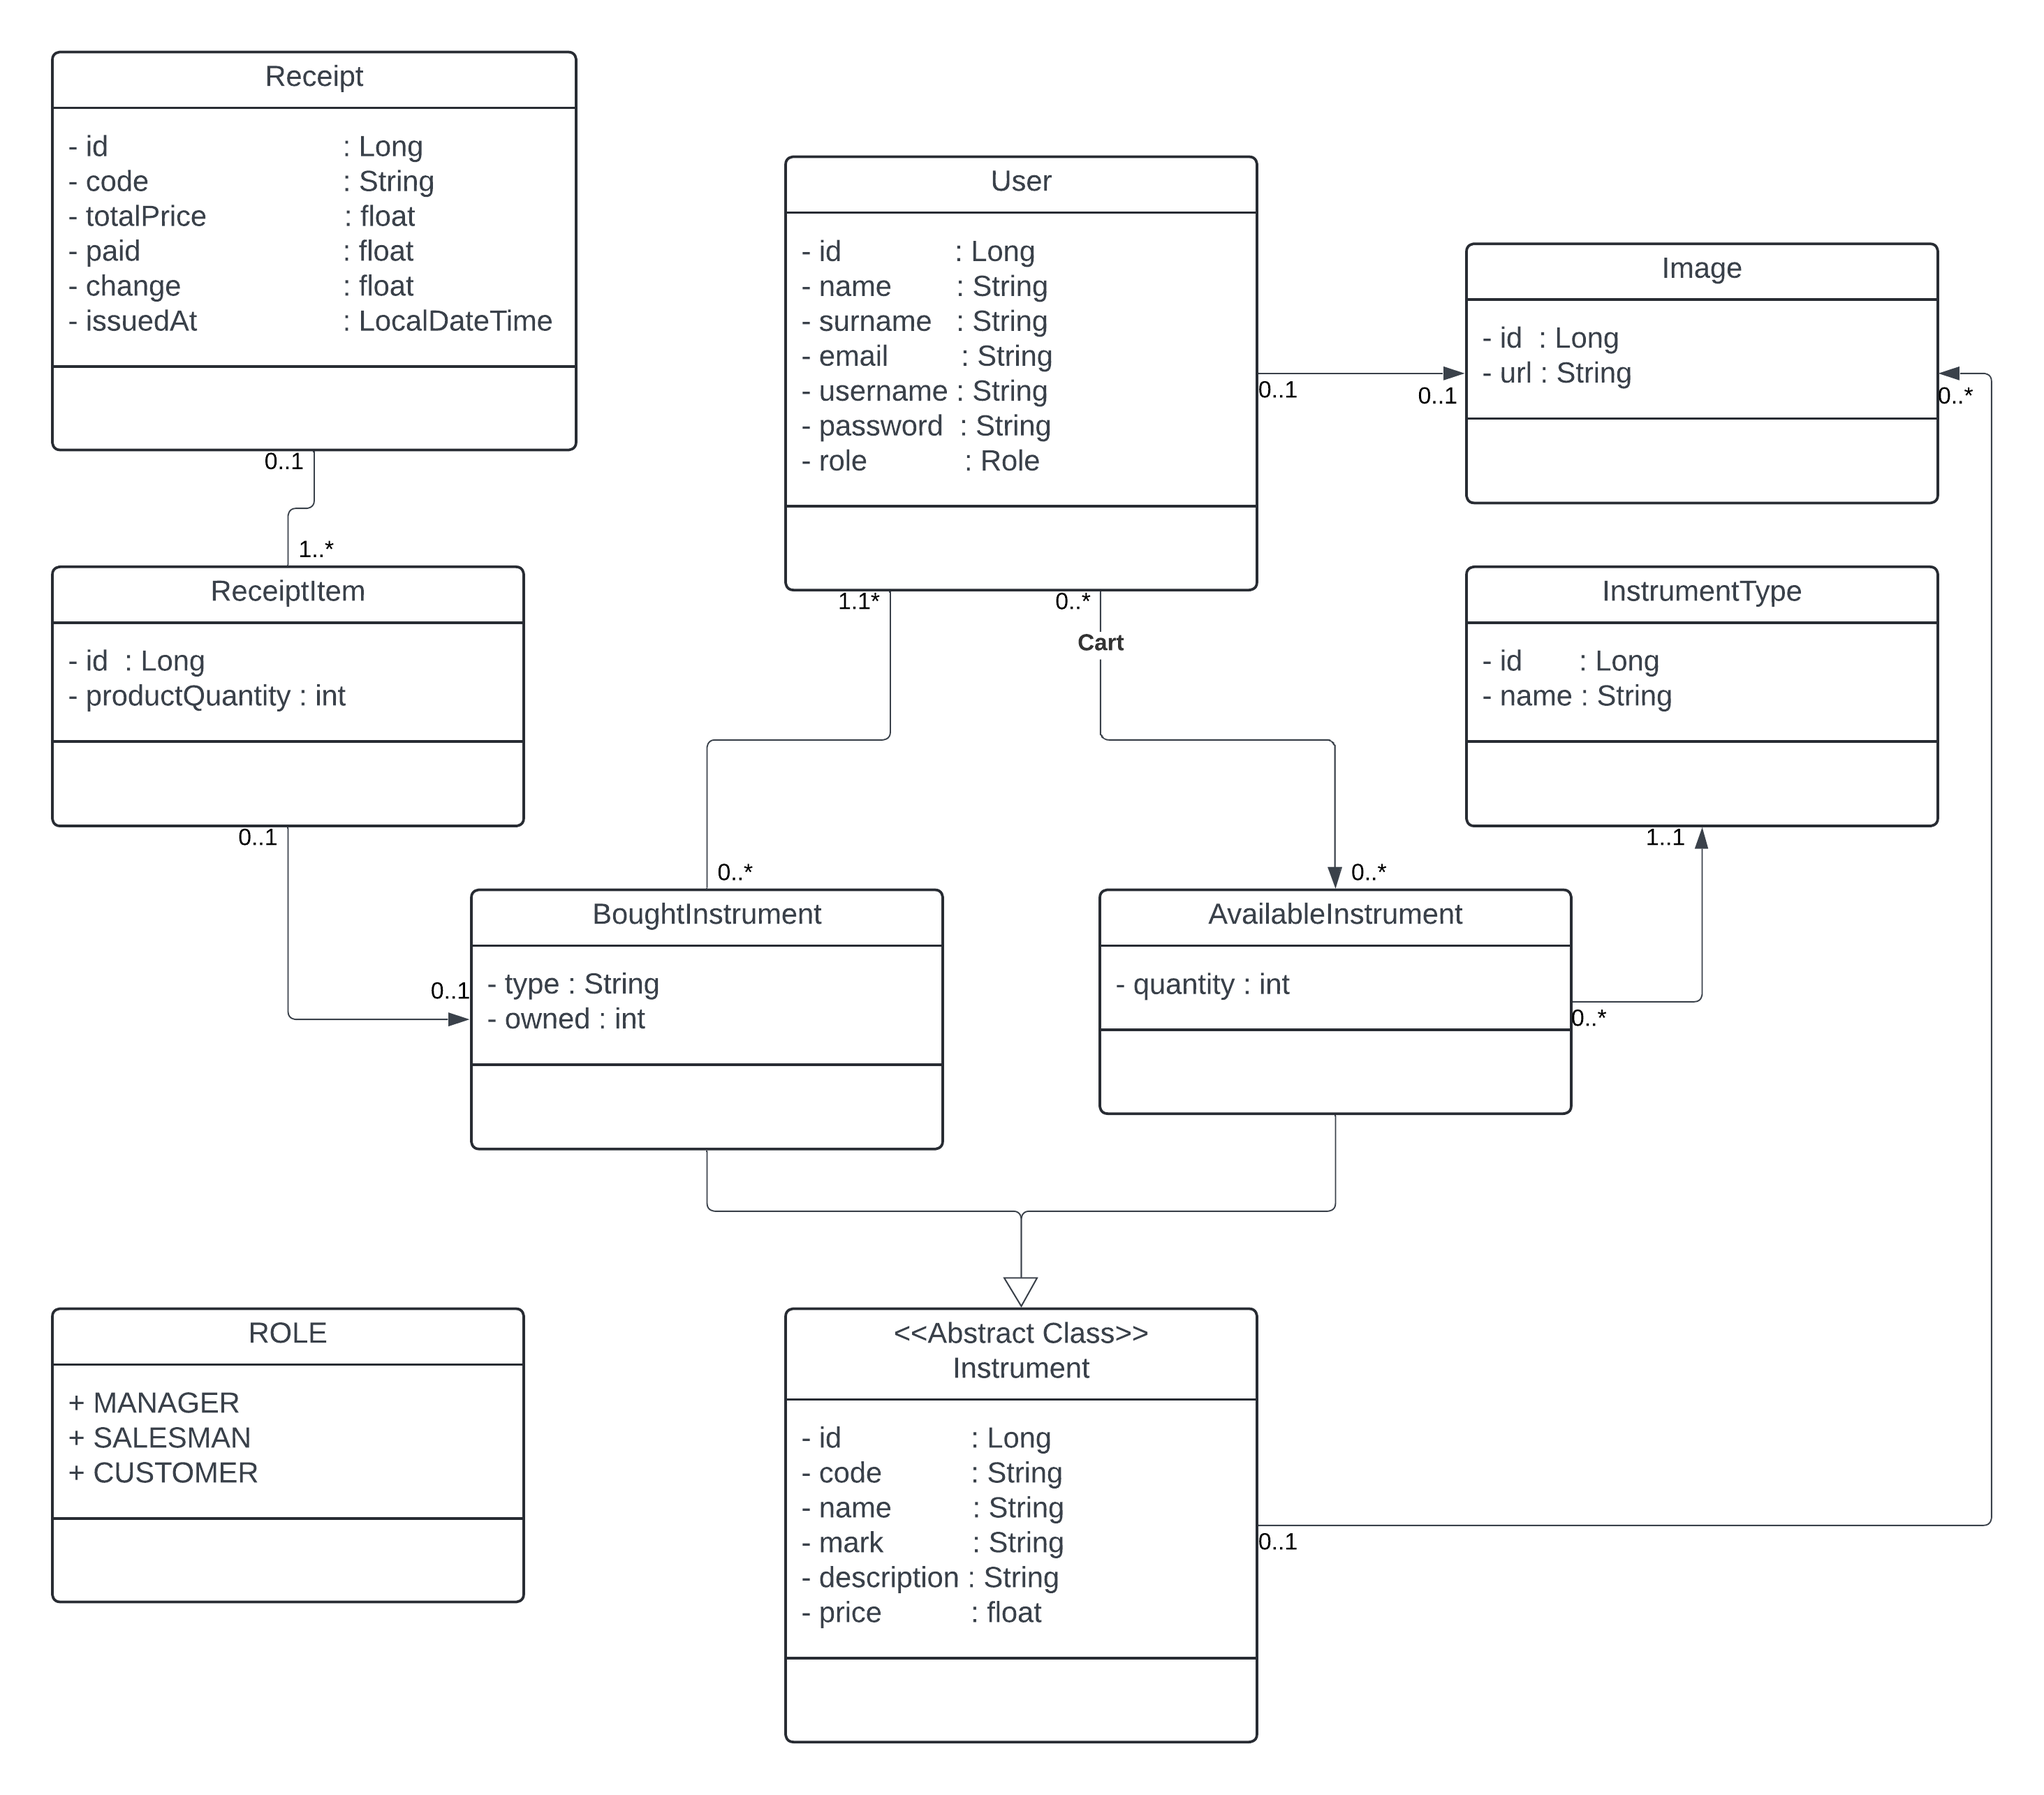
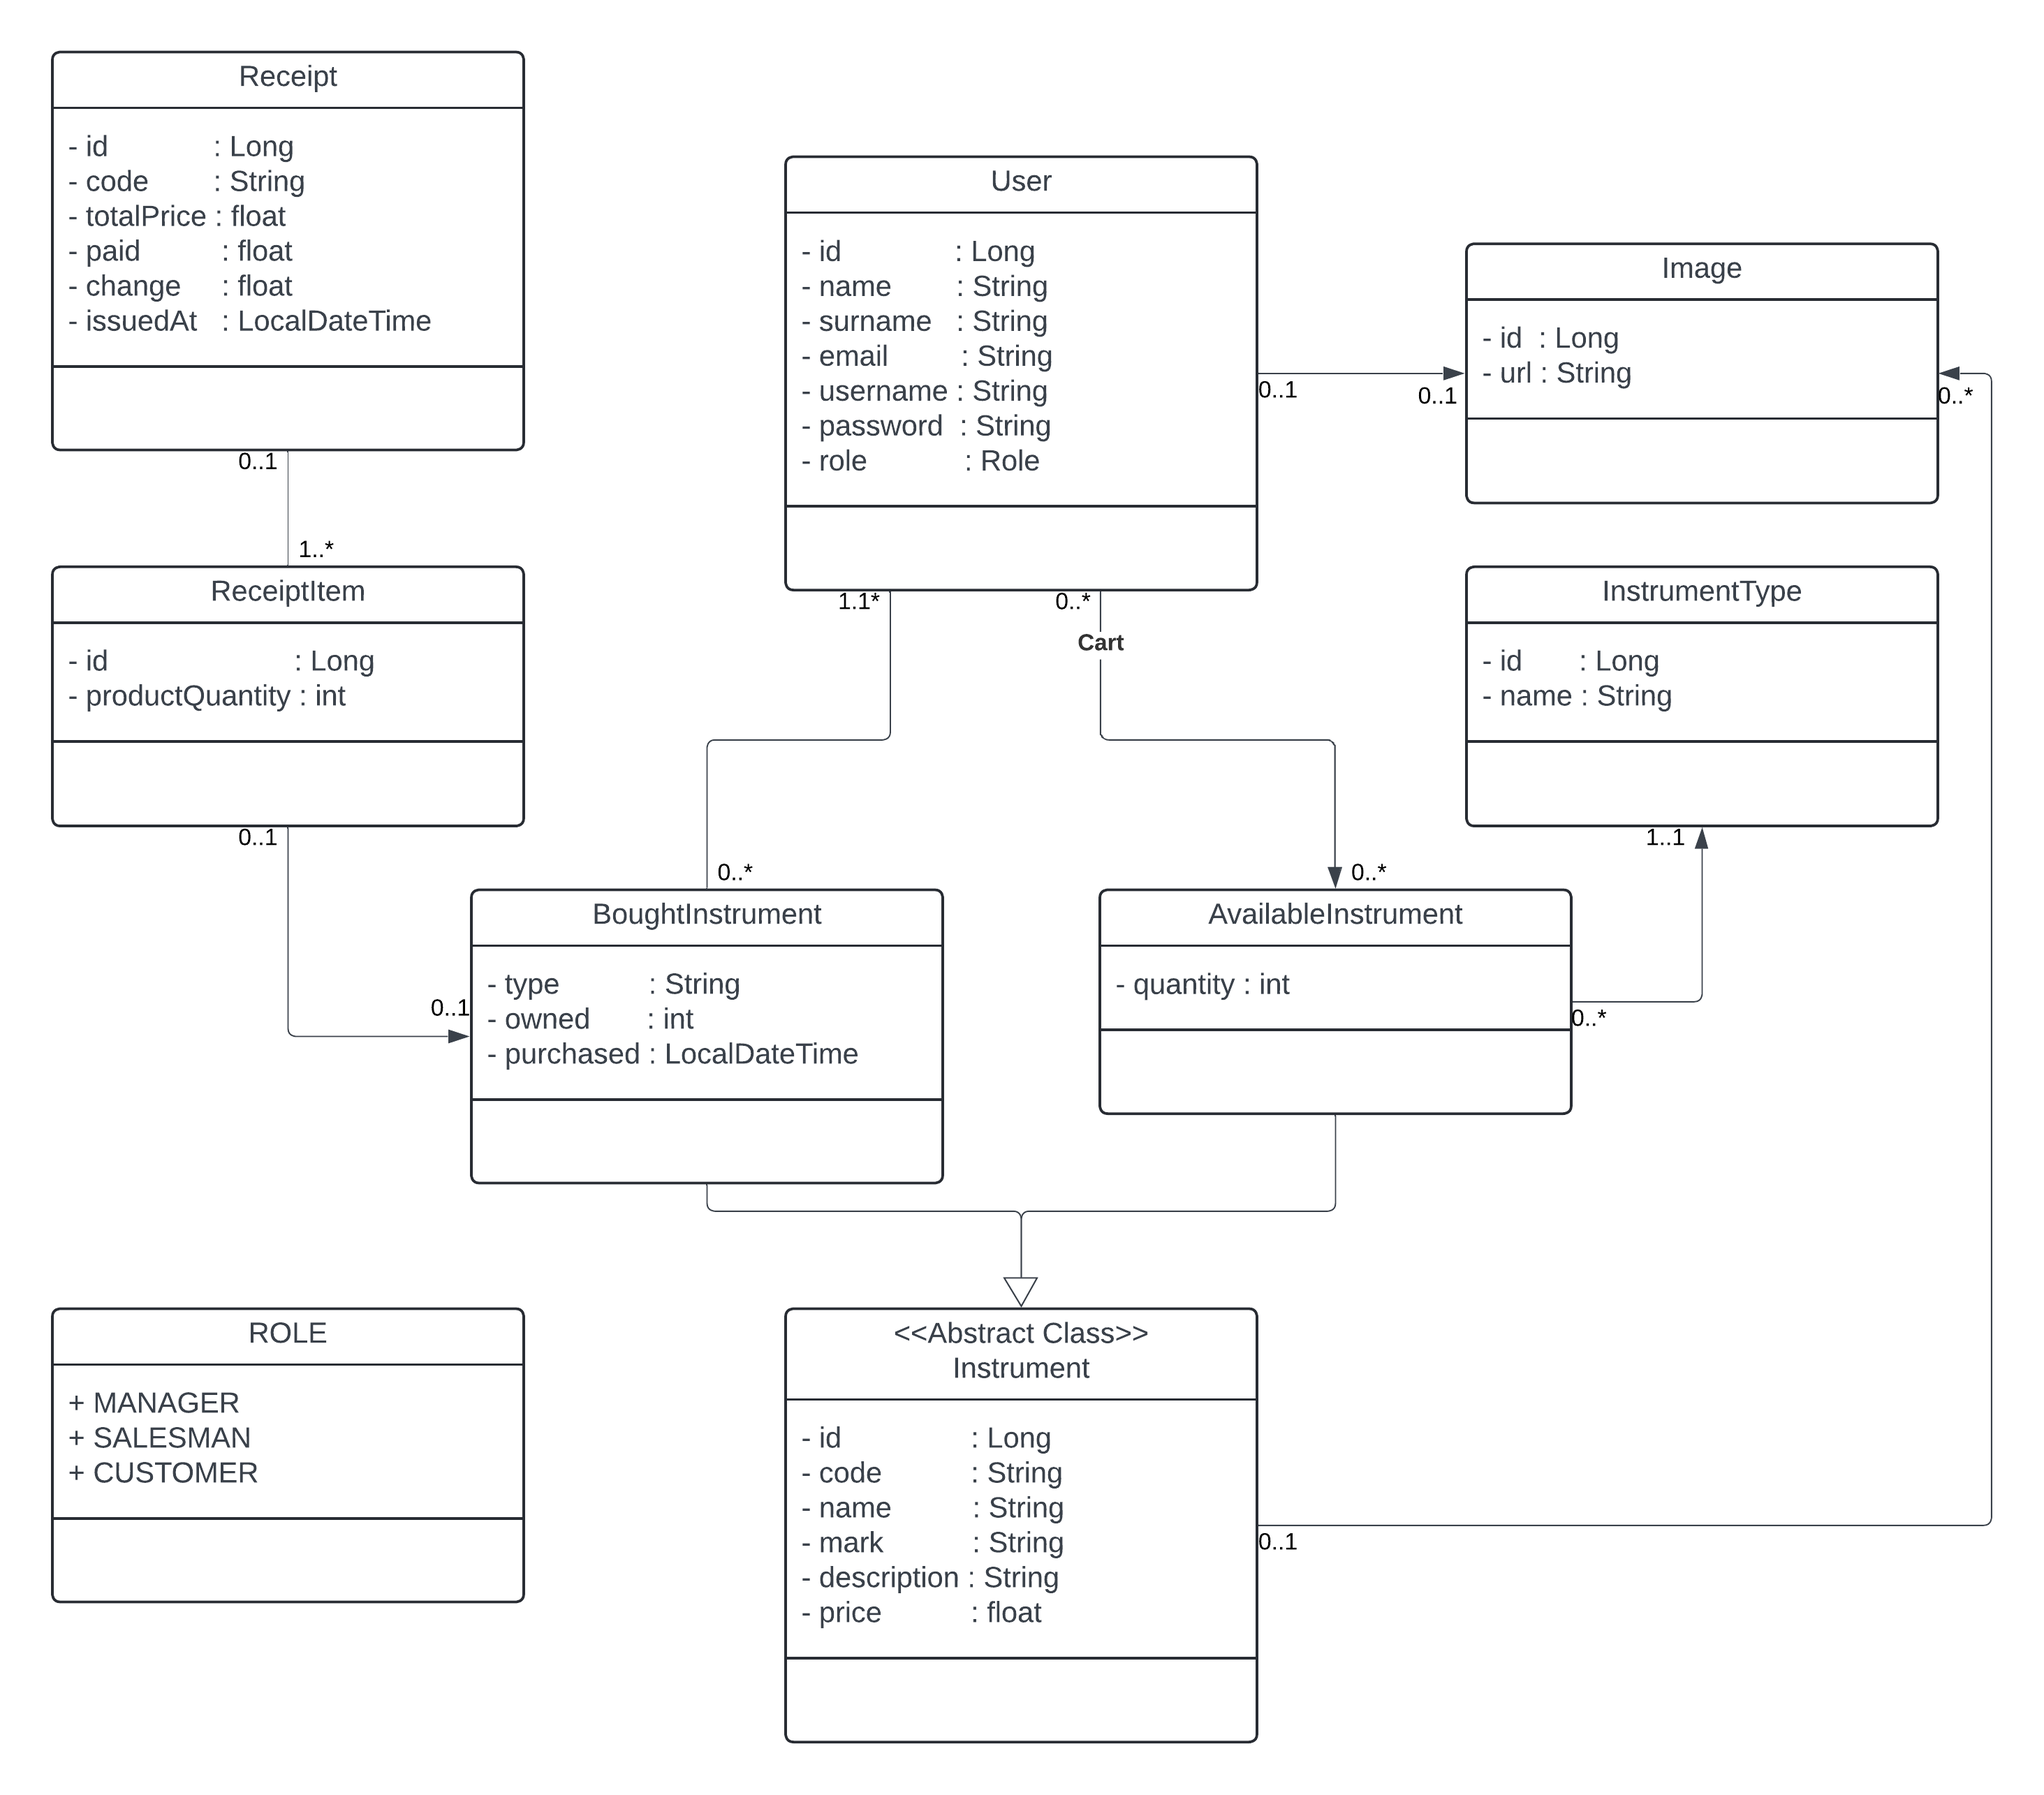
Updated model

diff --git a/shop-api/sparkjava-shop/src/main/java/com/instrument/shop/model/BoughtInstrument.java b/shop-api/sparkjava-shop/src/main/java/com/instrument/shop/model/BoughtInstrument.java
@@ -7,6 +7,7 @@ import jakarta.persistence.JoinColumn;
 import jakarta.persistence.ManyToOne;
 import jakarta.persistence.Table;
 
+import java.time.LocalDateTime;
 import java.util.List;
 
 @Entity
@@ -21,21 +22,25 @@ public class BoughtInstrument extends Instrument {
     @Column(nullable = false)
     private String type;
 
+    @Column(nullable = false)
+    private LocalDateTime purchased;
+
     @ManyToOne
     @JoinColumn(name = "owner_id")
     private User owner;
 
     public BoughtInstrument() { }
 
-    public BoughtInstrument(String code, String name, String mark, String description, float price, List<Image> images, int owned, String type, User owner) {
-        this(null, code, name, mark, description, price, images, owned, type, owner);
+    public BoughtInstrument(String code, String name, String mark, String description, float price, List<Image> images, int owned, String type, LocalDateTime purchased, User owner) {
+        this(null, code, name, mark, description, price, images, owned, type, purchased, owner);
     }
 
-    public BoughtInstrument(Long id, String code, String name, String mark, String description, float price, List<Image> images, int owned, String type, User owner) {
+    public BoughtInstrument(Long id, String code, String name, String mark, String description, float price, List<Image> images, int owned, String type, LocalDateTime purchased, User owner) {
         super(id, name, mark, description, price, images);
         this.code = Strings.requireNonBlank(code, "Code must not be blank");
         this.owned = owned;
         this.type = Strings.requireNonBlank(type, "Type must not be blank");
+        this.purchased = purchased;
         this.owner = owner;
     }
 
@@ -49,6 +54,10 @@ public class BoughtInstrument extends Instrument {
 
     public String getType() {
         return type;
+    }
+
+    public LocalDateTime getPurchased() {
+        return purchased;
     }
 
     public User getOwner() {

diff --git a/shop-api/sparkjava-shop/src/main/java/com/instrument/shop/service/impl/BoughtInstrumentServiceImpl.java b/shop-api/sparkjava-shop/src/main/java/com/instrument/shop/service/impl/BoughtInstrumentServiceImpl.java
@@ -19,6 +19,7 @@ import com.instrument.shop.service.UserService;
 import jakarta.inject.Inject;
 import jakarta.inject.Singleton;
 
+import java.time.LocalDateTime;
 import java.util.ArrayList;
 import java.util.HashMap;
 import java.util.List;
@@ -140,6 +141,7 @@ public class BoughtInstrumentServiceImpl implements BoughtInstrumentService {
                 boughtImages,
                 owned,
                 instrument.getType().getName(),
+                LocalDateTime.now(),
                 owner
         );
     }
